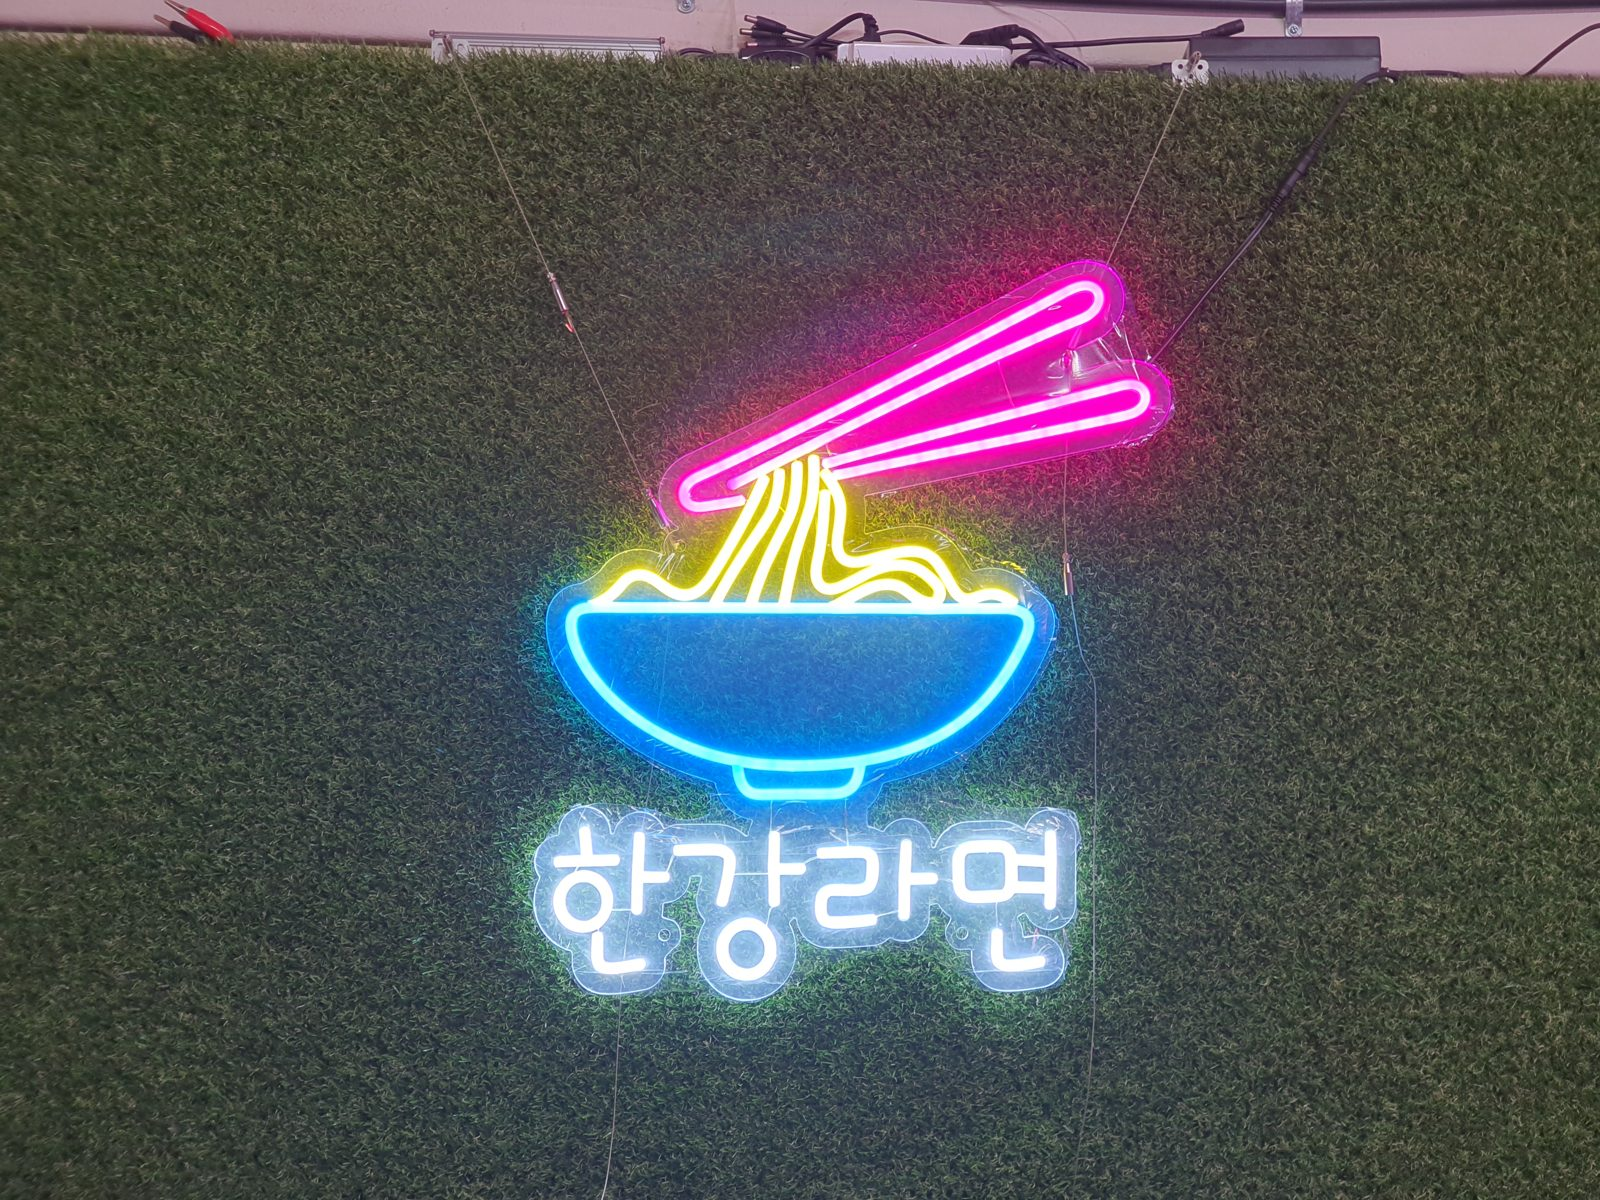
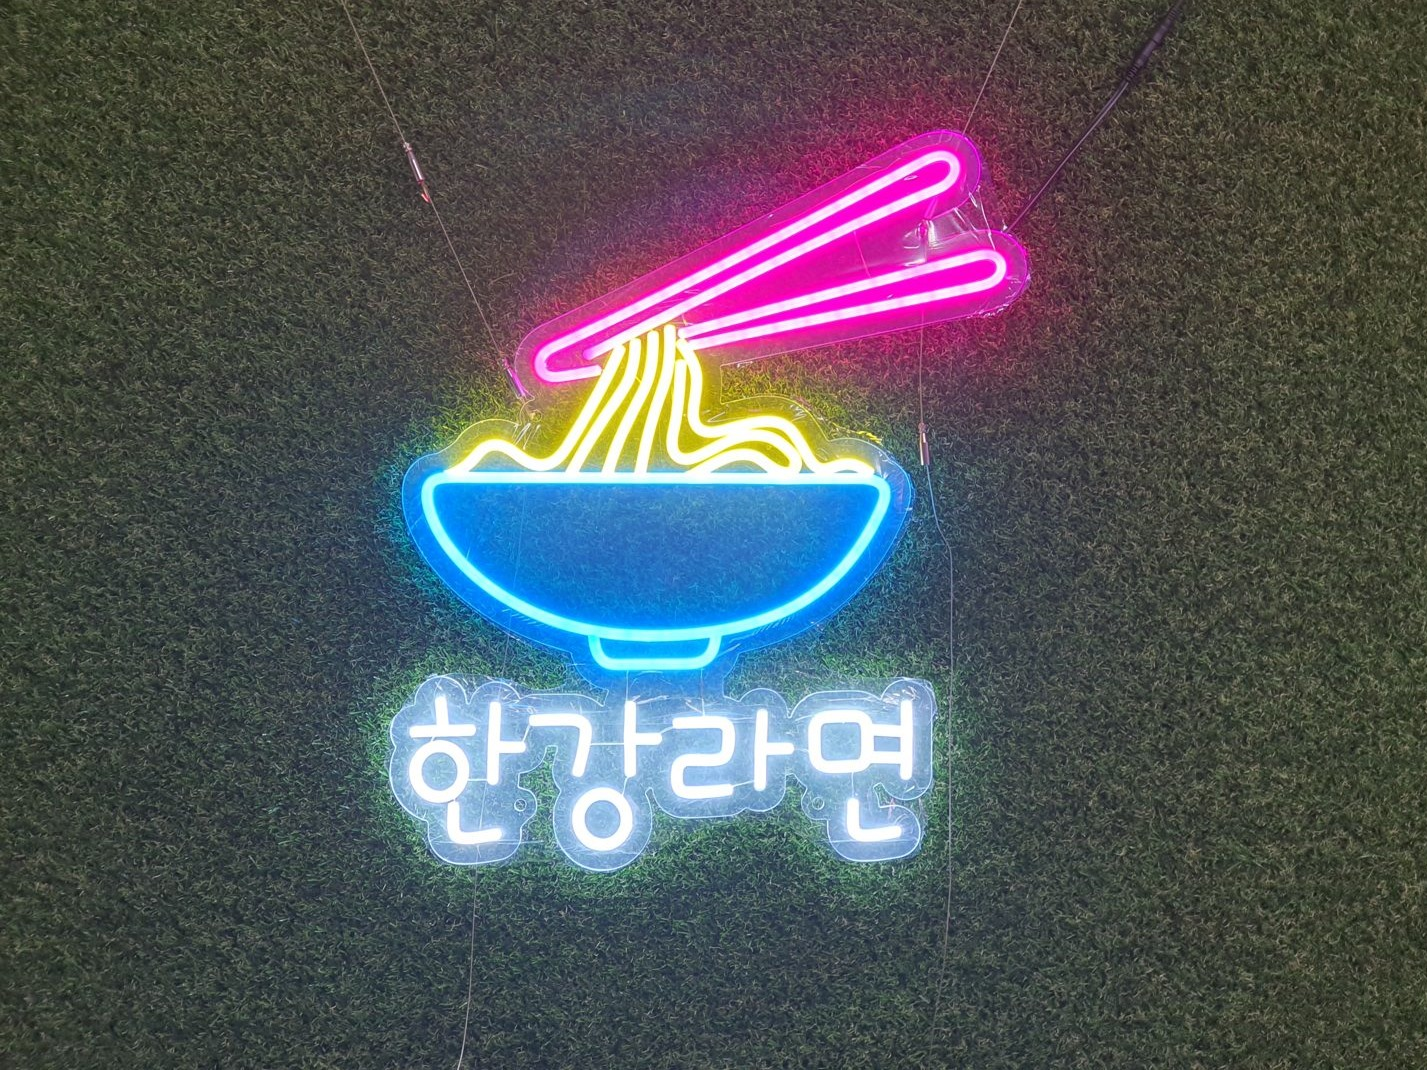
Pastel calculator page, cropped ramen photo, two photos removed
- /configurator now matches the K pastel look: pink hero titled
  "LED네온 단가 계산", cream body, inputs grouped into numbered white
  cards, lavender price card with a large total and a quote link,
  rounded neon preview. Pricing logic untouched (28 tests pass).
  Fixed a small horizontal overflow on narrow phones.
- Cropped the SMPS / wiring strip off the top of the 한강라면 photo.
- Removed the round ceiling neon and white acrylic CNC photos from the
  homepage gallery and the portfolio, and deleted the images.

diff --git a/src/components/configurator/ConfiguratorForm.tsx b/src/components/configurator/ConfiguratorForm.tsx
@@ -1,6 +1,6 @@
 'use client';
 
-import { useState } from 'react';
+import { useState, type ReactNode } from 'react';
 import { AccessorySelector } from './AccessorySelector';
 import { BaseBoardThicknessSelect } from './BaseBoardThicknessSelect';
 import { DimensionInput } from './DimensionInput';
@@ -30,53 +30,84 @@ const initialState: NeonPriceInput = {
   accessoryQuantities: {},
 };
 
+const STEP_BADGE_COLORS = ['#E8E0FF', '#D9E8FF', '#D4F2E6', '#FFEBC2', '#FFE0D1'];
+
+function Step({ number, title, children }: { number: number; title: string; children: ReactNode }) {
+  return (
+    <section className="rounded-[28px] bg-white p-5 sm:p-6">
+      <h2 className="mb-4 flex items-center gap-3 text-xl font-extrabold tracking-tight">
+        <span
+          className="flex size-8 items-center justify-center rounded-full text-sm"
+          style={{ background: STEP_BADGE_COLORS[(number - 1) % STEP_BADGE_COLORS.length] }}
+        >
+          {number}
+        </span>
+        {title}
+      </h2>
+      {children}
+    </section>
+  );
+}
+
 export function ConfiguratorForm() {
   const [form, setForm] = useState<NeonPriceInput>(initialState);
   const { breakdown, isStale } = useNeonPrice(form);
 
   return (
-    <div className="grid gap-6 lg:grid-cols-[1fr_360px]">
-      <div className="space-y-6">
-        <DimensionInput
-          widthMm={form.widthMm}
-          heightMm={form.heightMm}
-          onChange={(dims) => setForm((f) => ({ ...f, ...dims }))}
-        />
-        <div className="grid grid-cols-2 gap-4 sm:grid-cols-3">
-          <TubeThicknessSelect
-            value={form.tubeThickness}
-            onChange={(v) => setForm((f) => ({ ...f, tubeThickness: v }))}
+    <div className="grid grid-cols-[minmax(0,1fr)] gap-6 lg:grid-cols-[minmax(0,1fr)_380px]">
+      <div className="space-y-5">
+        <Step number={1} title="베이스판 크기">
+          <DimensionInput
+            widthMm={form.widthMm}
+            heightMm={form.heightMm}
+            onChange={(dims) => setForm((f) => ({ ...f, ...dims }))}
           />
-          <BaseBoardThicknessSelect
-            value={form.baseBoardThickness}
-            onChange={(v) => setForm((f) => ({ ...f, baseBoardThickness: v }))}
+        </Step>
+        <Step number={2} title="두께 · 선 종류">
+          <div className="grid grid-cols-2 gap-4 sm:grid-cols-3">
+            <TubeThicknessSelect
+              value={form.tubeThickness}
+              onChange={(v) => setForm((f) => ({ ...f, tubeThickness: v }))}
+            />
+            <BaseBoardThicknessSelect
+              value={form.baseBoardThickness}
+              onChange={(v) => setForm((f) => ({ ...f, baseBoardThickness: v }))}
+            />
+            <LineTypeSelect
+              value={form.lineType}
+              onChange={(v) => setForm((f) => ({ ...f, lineType: v }))}
+            />
+          </div>
+        </Step>
+        <Step number={3} title="색상 · 설치 장소">
+          <div className="space-y-4">
+            <SiliconeColorPicker
+              value={form.siliconeColorCode}
+              onChange={(code) => setForm((f) => ({ ...f, siliconeColorCode: code }))}
+            />
+            <IndoorOutdoorToggle
+              isOutdoor={form.isOutdoor}
+              onChange={(isOutdoor) => setForm((f) => ({ ...f, isOutdoor }))}
+            />
+          </div>
+        </Step>
+        <Step number={4} title="문구 · 폰트">
+          <TextFontInput
+            displayText={form.displayText}
+            fontFamily={form.fontFamily}
+            textWidthMm={form.textWidthMm}
+            textHeightMm={form.textHeightMm}
+            onDisplayTextChange={(displayText) => setForm((f) => ({ ...f, displayText }))}
+            onFontFamilyChange={(fontFamily) => setForm((f) => ({ ...f, fontFamily }))}
+            onTextSizeChange={(size) => setForm((f) => ({ ...f, ...size }))}
           />
-          <LineTypeSelect
-            value={form.lineType}
-            onChange={(v) => setForm((f) => ({ ...f, lineType: v }))}
+        </Step>
+        <Step number={5} title="부자재">
+          <AccessorySelector
+            quantities={form.accessoryQuantities}
+            onChange={(updater) => setForm((f) => ({ ...f, accessoryQuantities: updater(f.accessoryQuantities) }))}
           />
-        </div>
-        <SiliconeColorPicker
-          value={form.siliconeColorCode}
-          onChange={(code) => setForm((f) => ({ ...f, siliconeColorCode: code }))}
-        />
-        <IndoorOutdoorToggle
-          isOutdoor={form.isOutdoor}
-          onChange={(isOutdoor) => setForm((f) => ({ ...f, isOutdoor }))}
-        />
-        <TextFontInput
-          displayText={form.displayText}
-          fontFamily={form.fontFamily}
-          textWidthMm={form.textWidthMm}
-          textHeightMm={form.textHeightMm}
-          onDisplayTextChange={(displayText) => setForm((f) => ({ ...f, displayText }))}
-          onFontFamilyChange={(fontFamily) => setForm((f) => ({ ...f, fontFamily }))}
-          onTextSizeChange={(size) => setForm((f) => ({ ...f, ...size }))}
-        />
-        <AccessorySelector
-          quantities={form.accessoryQuantities}
-          onChange={(updater) => setForm((f) => ({ ...f, accessoryQuantities: updater(f.accessoryQuantities) }))}
-        />
+        </Step>
       </div>
 
       <div className="space-y-4">

diff --git a/src/components/configurator/LivePricePreview.tsx b/src/components/configurator/LivePricePreview.tsx
@@ -1,7 +1,7 @@
-import { Badge } from '@/components/ui/badge';
-import { Card, CardContent, CardDescription, CardHeader, CardTitle } from '@/components/ui/card';
+import Link from 'next/link';
 import { PriceBreakdownTable } from './PriceBreakdownTable';
 import type { NeonPriceBreakdown } from '@/lib/pricing/pricing.types';
+import { PALETTE } from '@/lib/kTheme';
 import { cn } from '@/lib/utils';
 
 interface LivePricePreviewProps {
@@ -11,33 +11,51 @@ interface LivePricePreviewProps {
 
 export function LivePricePreview({ breakdown, isStale }: LivePricePreviewProps) {
   return (
-    <Card className={cn('sticky top-4 transition-opacity', isStale && 'opacity-70')}>
-      <CardHeader>
-        <CardTitle>실시간 견적</CardTitle>
-        <CardDescription>
+    <div
+      className={cn('sticky top-20 space-y-4 rounded-[32px] p-6 transition-opacity', isStale && 'opacity-70')}
+      style={{ background: PALETTE.heroBg }}
+    >
+      <div>
+        <h2 className="text-xl font-extrabold tracking-tight">실시간 견적</h2>
+        <p className="mt-1 text-sm" style={{ color: PALETTE.inkSub }}>
           한글 6cm, 영문 4cm 이상 작업 가능
           <br />
           20각 이하는 복선 작업 불가
-        </CardDescription>
-      </CardHeader>
-      <CardContent className="space-y-4">
-        {breakdown ? (
-          <>
-            <div className="text-3xl font-semibold">{breakdown.total.toLocaleString('ko-KR')}원</div>
+        </p>
+      </div>
+      {breakdown ? (
+        <>
+          <div className="text-5xl font-extrabold tracking-tight">
+            {breakdown.total.toLocaleString('ko-KR')}
+            <span className="text-2xl">원</span>
+          </div>
+          <div className="rounded-[22px] bg-white px-4 py-2">
             <PriceBreakdownTable breakdown={breakdown} />
-            {breakdown.warnings.map((warning) => (
-              <Badge key={warning} variant="secondary" className="block w-fit text-xs font-normal whitespace-normal">
-                {warning}
-              </Badge>
-            ))}
-            <p className="text-xs text-muted-foreground">
-              이 견적은 참고용입니다. 정확한 금액은 시안을 확정해야 알 수 있습니다.
+          </div>
+          {breakdown.warnings.map((warning) => (
+            <p
+              key={warning}
+              className="rounded-2xl px-4 py-2 text-sm font-medium"
+              style={{ background: PALETTE.badge }}
+            >
+              {warning}
             </p>
-          </>
-        ) : (
-          <div className="text-sm text-muted-foreground">가격 계산 중...</div>
-        )}
-      </CardContent>
-    </Card>
+          ))}
+          <p className="text-xs" style={{ color: PALETTE.inkSub }}>
+            이 견적은 참고용입니다. 정확한 금액은 시안을 확정해야 알 수 있습니다.
+          </p>
+          <Link
+            href="/quote"
+            className="flex items-center justify-center rounded-full bg-[#2B2840] px-6 py-3.5 text-base font-bold text-white"
+          >
+            도면·시안 보내고 견적받기
+          </Link>
+        </>
+      ) : (
+        <div className="text-sm" style={{ color: PALETTE.inkSub }}>
+          가격 계산 중...
+        </div>
+      )}
+    </div>
   );
 }

diff --git a/src/app/configurator/page.tsx b/src/app/configurator/page.tsx
@@ -1,12 +1,35 @@
+import type { Metadata } from 'next';
 import { ConfiguratorForm } from '@/components/configurator/ConfiguratorForm';
+import { CATEGORY_PASTEL, PALETTE } from '@/lib/kTheme';
+
+export const metadata: Metadata = {
+  title: 'LED네온 단가 계산 | 백송사인',
+  description: '크기·두께·문구를 넣으면 LED네온 참고 견적을 바로 계산해 드려요.',
+};
 
 export default function ConfiguratorPage() {
   return (
-    <main className="mx-auto max-w-4xl px-4 py-10">
-      <h1 className="mb-6 text-2xl font-semibold">
-        네온사인 맞춤 견적 <span className="text-muted-foreground">(참고용 견적)</span>
-      </h1>
-      <ConfiguratorForm />
+    <main className="flex flex-1 flex-col" style={{ color: PALETTE.ink }}>
+      <section style={{ background: CATEGORY_PASTEL['led-neon'] }}>
+        <div className="mx-auto flex max-w-6xl flex-col gap-4 px-4 pt-14 pb-12 sm:px-6">
+          <span className="self-start rounded-full bg-white/70 px-4 py-1.5 text-sm font-bold">
+            참고용 견적
+          </span>
+          <h1 className="text-5xl leading-[1.15] font-extrabold tracking-tight sm:text-6xl">
+            LED네온 단가 계산
+          </h1>
+          <p className="max-w-xl text-lg leading-relaxed font-medium" style={{ color: PALETTE.inkSub }}>
+            크기와 두께, 문구를 넣으면 가격이 바로 계산돼요. 정확한 금액은 시안을 확정한 뒤
+            안내드려요.
+          </p>
+        </div>
+      </section>
+
+      <section className="flex-1" style={{ background: PALETTE.soft }}>
+        <div className="mx-auto max-w-6xl px-4 py-12 sm:px-6">
+          <ConfiguratorForm />
+        </div>
+      </section>
     </main>
   );
 }

diff --git a/src/components/configurator/NeonPreview.tsx b/src/components/configurator/NeonPreview.tsx
@@ -63,7 +63,7 @@ export function NeonPreview({
 
   if (!hasBoard) {
     return (
-      <div className="flex min-h-32 items-center justify-center rounded-lg bg-neutral-900 px-4 py-8">
+      <div className="flex min-h-32 items-center justify-center rounded-[28px] bg-neutral-900 px-4 py-8">
         <span className="text-center text-sm text-neutral-400">
           베이스판 가로/세로를 입력하면 미리보기가 표시됩니다
         </span>
@@ -93,7 +93,7 @@ export function NeonPreview({
   const scaleY = measured ? (intendedH / natural.h) * fit : 1;
 
   return (
-    <div className="flex items-center justify-center rounded-lg bg-neutral-900 p-4">
+    <div className="flex items-center justify-center rounded-[28px] bg-neutral-900 p-4">
       <svg
         viewBox={`0 0 ${boardWidthMm} ${boardHeightMm}`}
         className="h-auto w-full"

diff --git a/src/lib/data/portfolio.ts b/src/lib/data/portfolio.ts
@@ -80,24 +80,6 @@ export const PORTFOLIO_ITEMS: PortfolioItem[] = [
     imageUrl: '/images/work/neon-ramen.jpg',
   },
   {
-    slug: 'work-neon-ring-ceiling',
-    category: 'led-neon',
-    title: '원형 천장 네온',
-    description: '천장에 다는 원형 LED네온.',
-    material: 'LED 실리콘 네온',
-    method: '벤딩 제작',
-    imageUrl: '/images/work/neon-ring-ceiling.jpg',
-  },
-  {
-    slug: 'work-acrylic-white-cnc',
-    category: 'acrylic',
-    title: '아크릴 문자 CNC',
-    description: '흰 아크릴 문자 CNC 가공.',
-    material: '백색 아크릴',
-    method: 'CNC 가공',
-    imageUrl: '/images/work/acrylic-white-cnc.jpg',
-  },
-  {
     slug: 'led-neon-store-sign-case',
     category: 'led-neon',
     title: '매장 로고 네온사인',

diff --git a/src/components/home/KHome.tsx b/src/components/home/KHome.tsx
@@ -19,9 +19,7 @@ const STATS = [
 const WORKS = [
   { src: '/images/work/neon-chicken.jpg', alt: '닭 캐릭터 LED네온', caption: '닭갈비집 캐릭터', bg: '#FFD6E2' },
   { src: '/images/work/neon-salad.jpg', alt: '샐러드 가게 LED네온', caption: '샐러드 가게 로고', bg: '#D4F2E6' },
-  { src: '/images/work/acrylic-white-cnc.jpg', alt: '흰 아크릴 문자 CNC 가공', caption: '아크릴 문자 CNC', bg: '#FFEBC2' },
   { src: '/images/work/neon-ramen.jpg', alt: '라면 가게 LED네온', caption: '라면 가게 로고', bg: '#E8E0FF' },
-  { src: '/images/work/neon-ring-ceiling.jpg', alt: '천장 원형 LED네온', caption: '원형 천장 네온', bg: '#FFE0D1' },
 ] as const;
 
 const ITEMS = [
